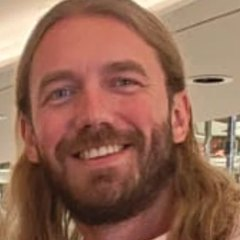
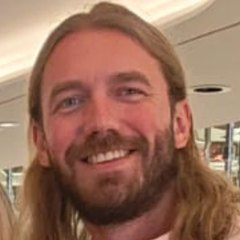
marked: recrop Rich's photo from a better source

diff --git a/marked/index.html b/marked/index.html
@@ -5,7 +5,7 @@
   /marked/ - LIVE from 2026-09-11. INDEXED. Copy revision v5b.
 
   COPY v8c (2026-10-08, Rich): 72px round photo of Rich in the .proof strip (marked/rich.jpg, 240px crop of
-  a casual photo Rich supplied as "for now"; swap the file when a proper headshot exists).
+  a casual photo Rich supplied as "for now", second photo, centred head crop; swap the file when a proper headshot exists).
   COPY v8b (2026-10-08, Rich): first student quote under the sample cards, from the 9702 P2 student
   (email 2026-10-08 19:42 BST: "Yes you can quote what I said earlier"; agreed attribution "AS student,
   9702", no name). His words verbatim, one cut marked "...". Lucas (0625 P4) asked the same day,
